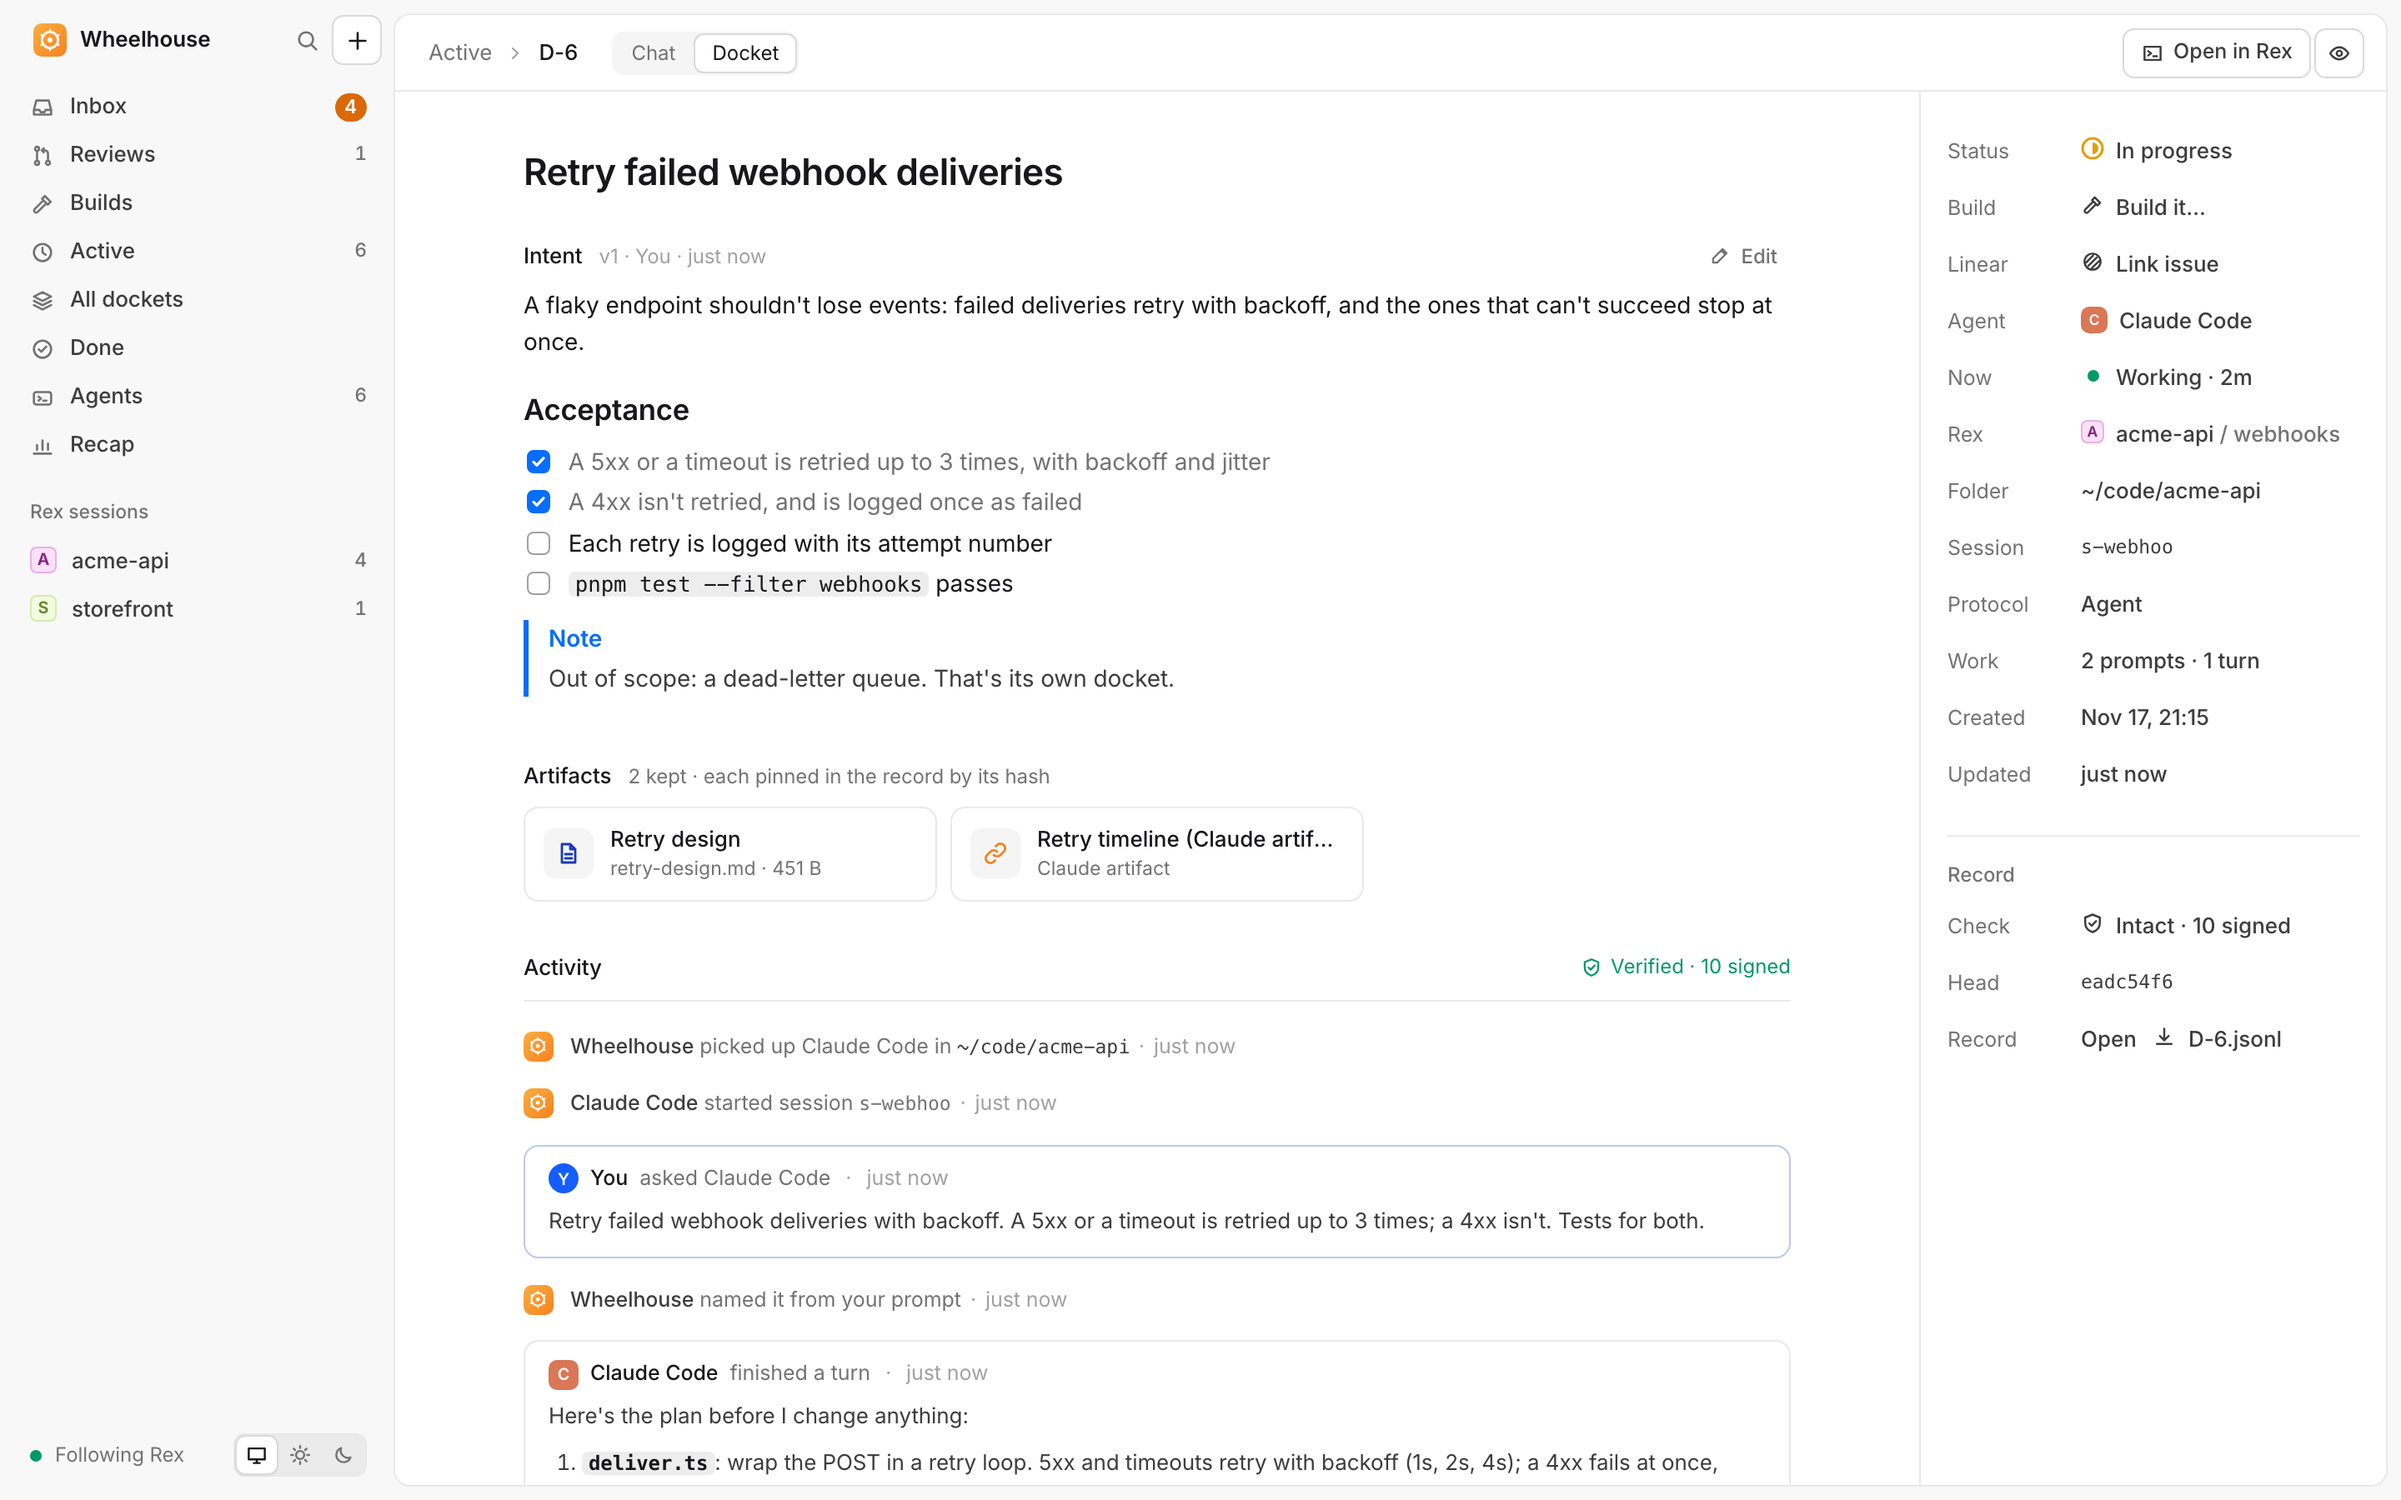
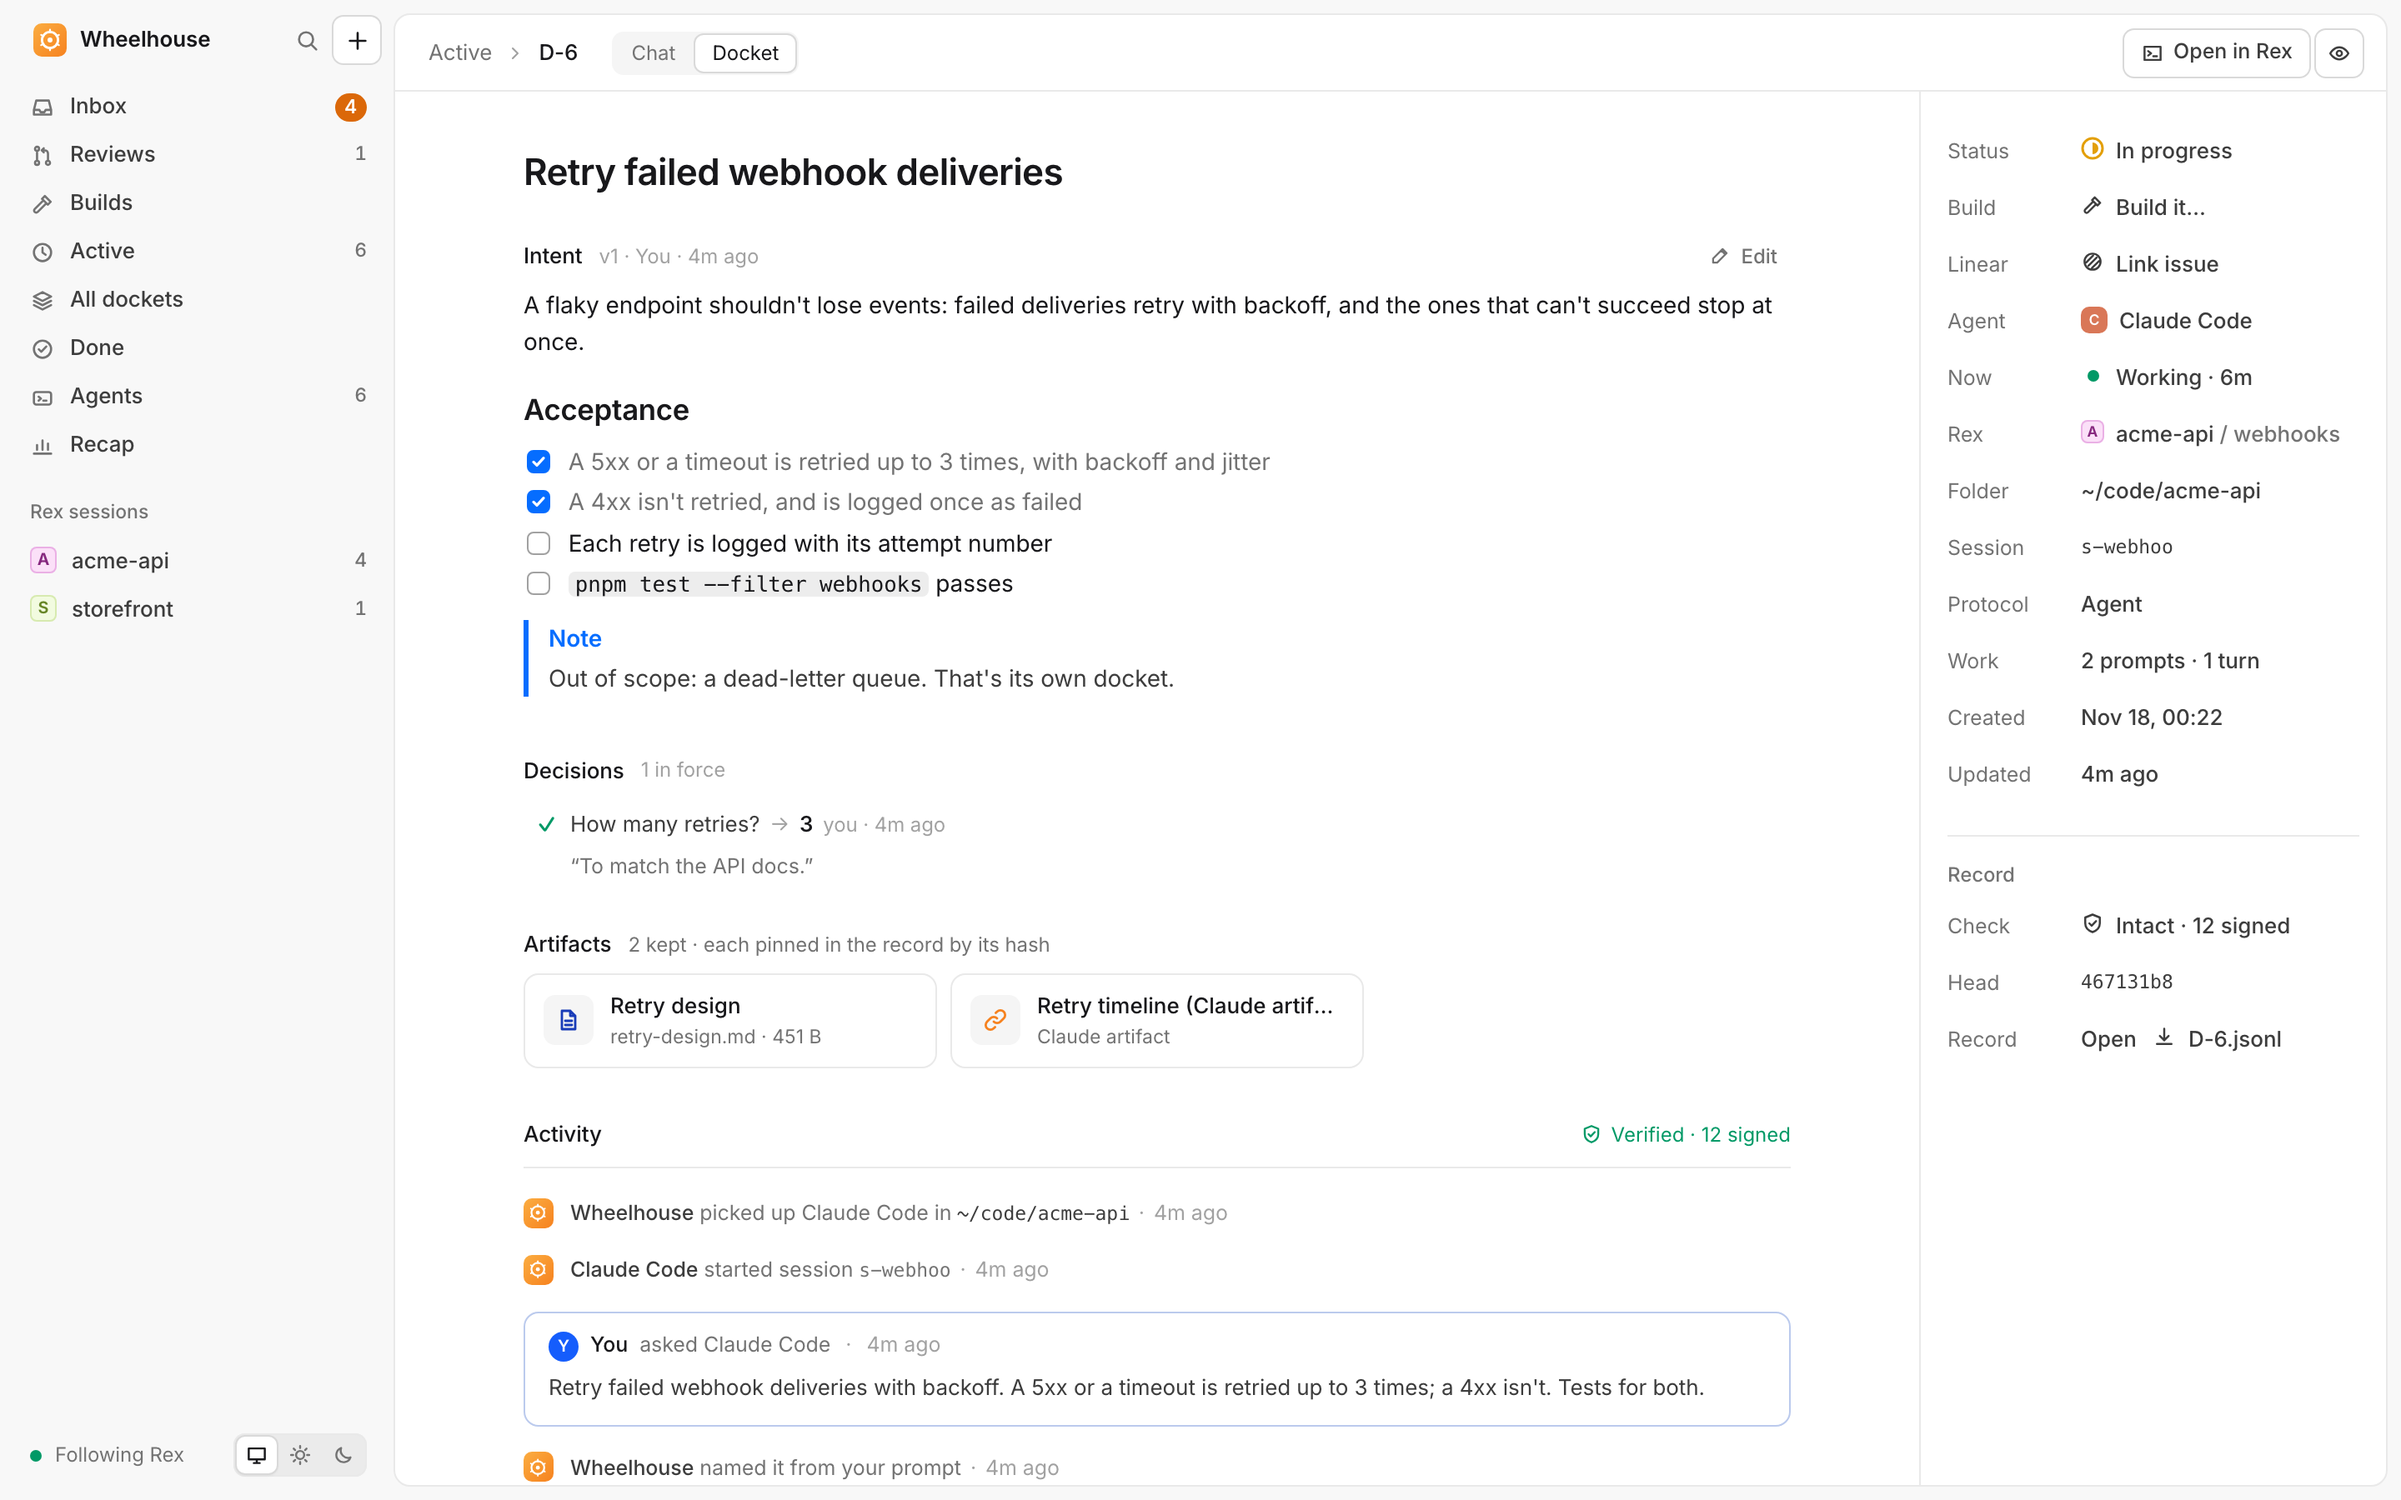
Headless Chrome never asks for the Keychain; wh build says more
The screenshot scripts start Chrome with a mock keychain and a plain
password store: a fresh profile otherwise asks macOS for "Chrome Safe
Storage", one Keychain prompt per shot.

wh build now says each Build's address round, rounds pushed, pre-review,
and the asks waiting on you. The roadmap has decisions in force as built.

diff --git a/src/main.rs b/src/main.rs
@@ -464,13 +464,29 @@ fn build_cmd(action: &str, args: &[String], repo: Option<String>, as_json: bool)
     }
     println!("Build    {}{}", if v["paused"] == true { "paused" } else { "on" }, v["doing"].as_str().map(|d| format!(" · {d}")).unwrap_or_default());
     for t in v["tasks"].as_array().into_iter().flatten() {
+        let mut bits: Vec<String> = Vec::new();
+        if let Some(p) = t["phase"].as_str() {
+            bits.push(p.replace('_', " "));
+        }
+        if let Some(n) = t["round"]["n"].as_i64() {
+            bits.push(format!("round {n}: {}", t["round"]["summary"].as_str().unwrap_or("")));
+        } else if t["rounds"].as_i64().unwrap_or(0) > 0 {
+            bits.push(format!("{} round{} pushed", t["rounds"], if t["rounds"] == 1 { "" } else { "s" }));
+        }
+        if let Some(n) = t["prereview"]["n"].as_i64() {
+            bits.push(format!("pre-review {n}: {} blocking", t["prereview"]["blocking"].as_i64().unwrap_or(0)));
+        }
+        if let Some(u) = t["pr_url"].as_str() {
+            bits.push(u.to_string());
+        }
+        let asks: Vec<&str> = t["asks"].as_array().into_iter().flatten().filter_map(|a| a.as_str()).collect();
         println!(
-            "  {:<6} {:<22} {:<10} {}{}{}",
+            "  {:<6} {:<22} {:<8} {}{}{}",
             t["docket"].as_str().unwrap_or(""),
             t["key"].as_str().unwrap_or(""),
             t["state"].as_str().unwrap_or(""),
-            t["phase"].as_str().unwrap_or(""),
-            t["pr_url"].as_str().map(|u| format!(" · {u}")).unwrap_or_default(),
+            bits.join(" · "),
+            if asks.is_empty() { String::new() } else { format!("  ⚑ waiting on you: {}", asks.join(", ")) },
             t["attention"]["text"].as_str().map(|a| format!("  ⚑ {a}")).unwrap_or_default()
         );
     }

diff --git a/docs/roadmap.md b/docs/roadmap.md
@@ -50,6 +50,8 @@ them. [DESIGN.md](../DESIGN.md) has the full design and its milestones.
       reports, checked review and merge risk; each Build's plan and
       checks). Agents keep anything else with `wh attach FILE|URL`. The
       record pins each file by its hash.
+- [x] Decisions in force under the intent, and in `wh brief`: what each
+      agent asked, the answer that stands, and who gave it
 - [x] The readable record: open it in the app, see who signed each entry,
       and check every kept file against its hash
 
@@ -146,7 +148,6 @@ them. [DESIGN.md](../DESIGN.md) has the full design and its milestones.
 - [ ] Codex's permission prompts answered from the app, as Claude Code's
       are
 - [ ] Rex hosts other than this Mac
-- [ ] Decisions in force shown under the intent, with who made each one
 
 ## Later
 
